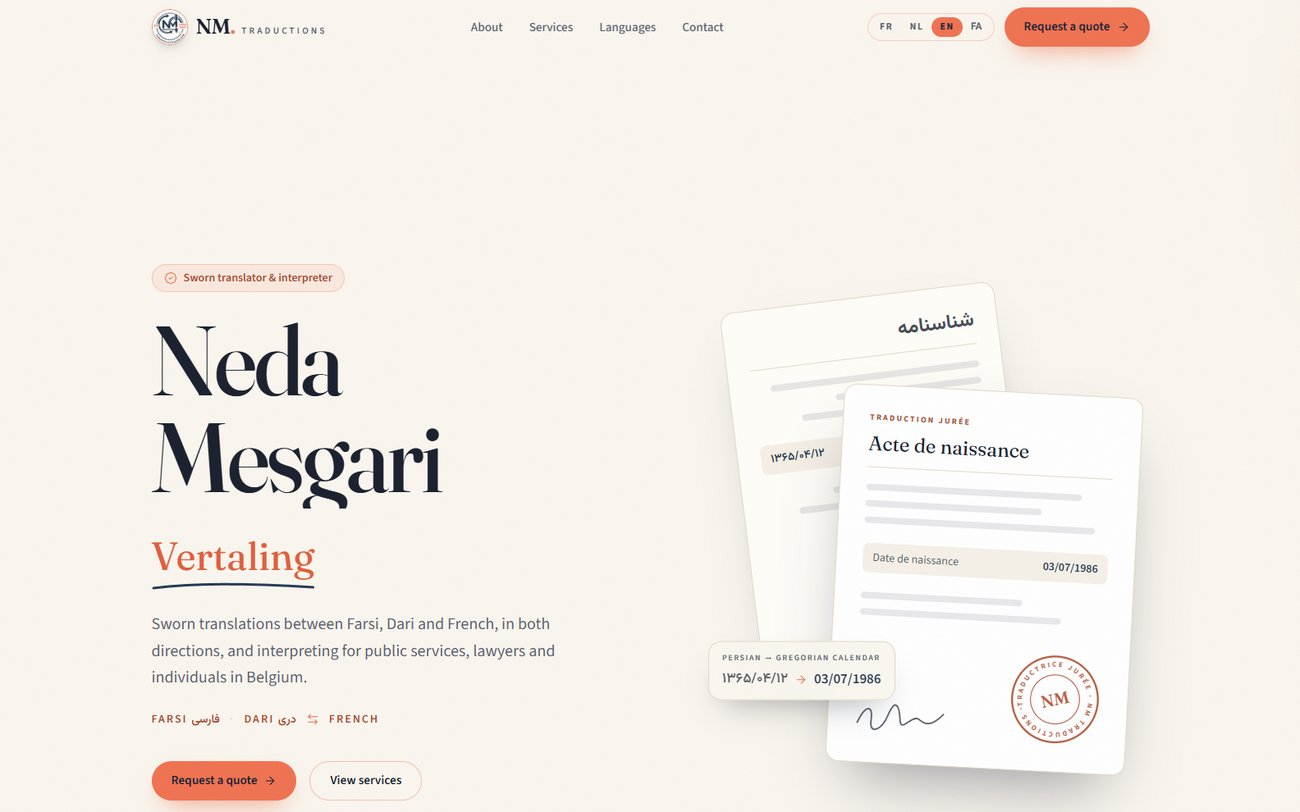
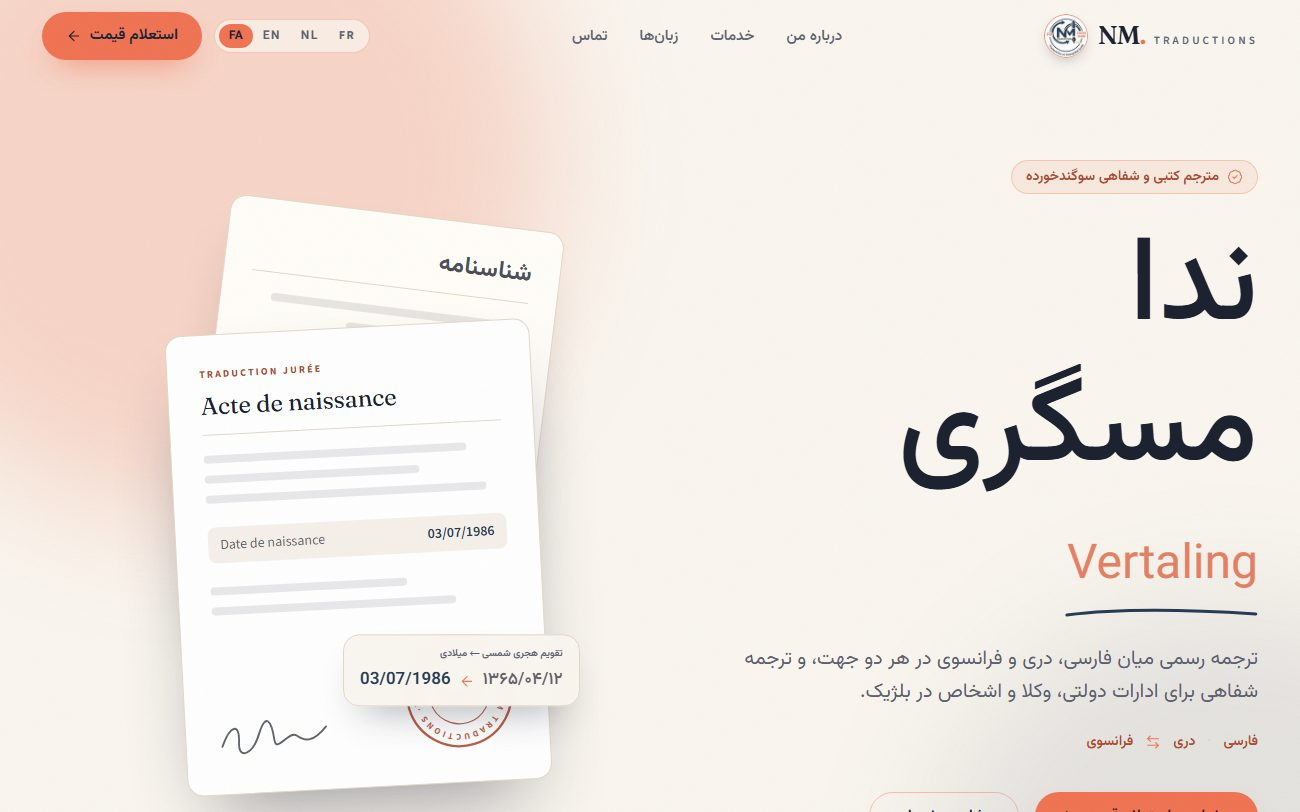
Capture NM traductions en farsi, retrait d'une capture brute oubliée

diff --git a/nl/index.html b/nl/index.html
@@ -262,7 +262,7 @@
   <div class="galerie galerie-3">
 
     <article class="projet-image">
-      <a class="lien-image" href="https://nm-traduction.vercel.app/" target="_blank" rel="noopener" tabindex="-1" aria-hidden="true"><div class="fenetre"><span class="barre" aria-hidden="true"></span><img src="../img/nm-traductions.jpg" alt="NM traductions: startpagina" width="1300" height="812" loading="lazy"></div></a>
+      <a class="lien-image" href="https://nm-traduction.vercel.app/" target="_blank" rel="noopener" tabindex="-1" aria-hidden="true"><div class="fenetre"><span class="barre" aria-hidden="true"></span><img src="../img/nm-traductions.jpg" alt="NM traductions: startpagina in het Farsi, van rechts naar links" width="1300" height="812" loading="lazy"></div></a>
       <p class="etiquette">Klant · React · i18next</p>
       <h3>NM traductions</h3>
       <p>De site van een beëdigd vertaalster, in vier talen waaronder het Perzisch, dat van rechts naar links geschreven wordt: de hele opmaak draait mee met de taal.</p>

diff --git a/index.html b/index.html
@@ -262,7 +262,7 @@
   <div class="galerie galerie-3">
 
     <article class="projet-image">
-      <a class="lien-image" href="https://nm-traduction.vercel.app/" target="_blank" rel="noopener" tabindex="-1" aria-hidden="true"><div class="fenetre"><span class="barre" aria-hidden="true"></span><img src="img/nm-traductions.jpg" alt="NM traductions : page d'accueil" width="1300" height="812" loading="lazy"></div></a>
+      <a class="lien-image" href="https://nm-traduction.vercel.app/" target="_blank" rel="noopener" tabindex="-1" aria-hidden="true"><div class="fenetre"><span class="barre" aria-hidden="true"></span><img src="img/nm-traductions.jpg" alt="NM traductions : page d'accueil en farsi, lue de droite à gauche" width="1300" height="812" loading="lazy"></div></a>
       <p class="etiquette">Client · React · i18next</p>
       <h3>NM traductions</h3>
       <p>Le site d'une traductrice jurée, en quatre langues dont le farsi, qui s'écrit de droite à gauche&nbsp;: toute la mise en page se retourne avec la langue.</p>

diff --git a/en/index.html b/en/index.html
@@ -262,7 +262,7 @@
   <div class="galerie galerie-3">
 
     <article class="projet-image">
-      <a class="lien-image" href="https://nm-traduction.vercel.app/" target="_blank" rel="noopener" tabindex="-1" aria-hidden="true"><div class="fenetre"><span class="barre" aria-hidden="true"></span><img src="../img/nm-traductions.jpg" alt="NM traductions: home page" width="1300" height="812" loading="lazy"></div></a>
+      <a class="lien-image" href="https://nm-traduction.vercel.app/" target="_blank" rel="noopener" tabindex="-1" aria-hidden="true"><div class="fenetre"><span class="barre" aria-hidden="true"></span><img src="../img/nm-traductions.jpg" alt="NM traductions: Farsi home page, laid out right to left" width="1300" height="812" loading="lazy"></div></a>
       <p class="etiquette">Client · React · i18next</p>
       <h3>NM traductions</h3>
       <p>The site of a sworn translator, in four languages including Farsi, written right to left: the whole layout flips with the language.</p>
